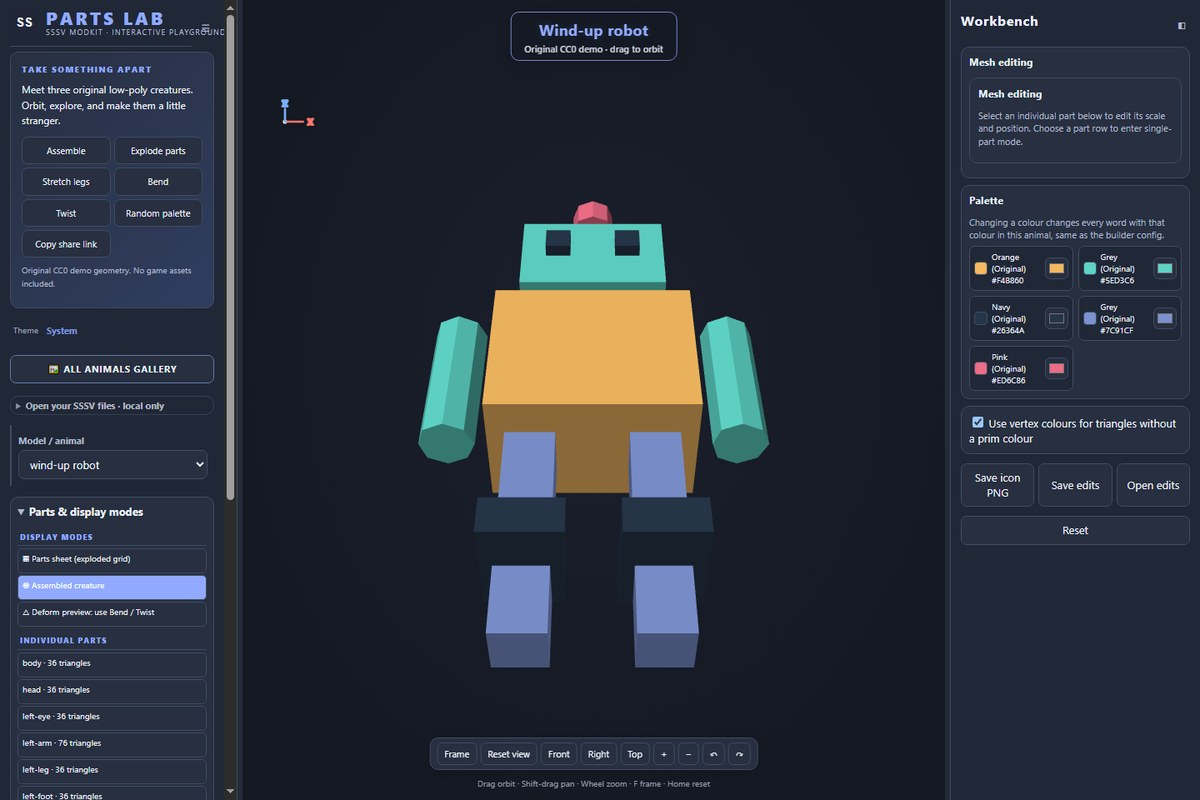
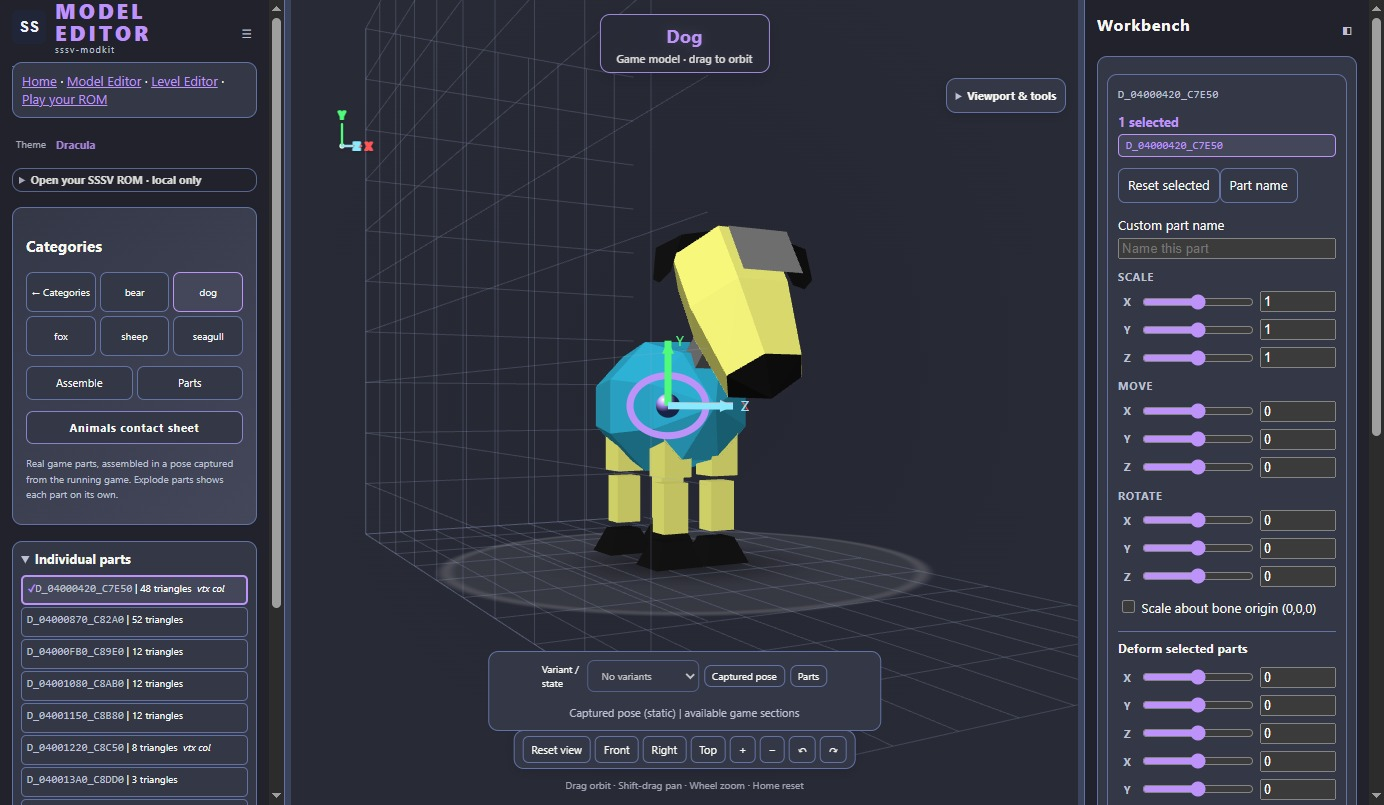
Refresh Model Editor feature screenshot

diff --git a/docs/images/features/README.md b/docs/images/features/README.md
@@ -6,7 +6,7 @@ holders; it is not part of the project's CC0 dedication.
 
 | Image | What it shows | Limits |
 | --- | --- | --- |
-| `parts-lab.jpg` | Current public-build Model Editor, original wind-up robot demo and save controls, 2026-11-04 | Demo geometry, not an in-game animal |
+| `parts-lab.jpg` | Updated Model Editor, assembled dog, compact animal categories, selected-part gizmo, numeric transforms and 3D reference grid, 2026-11-14 | Browser preview with a captured static pose; approximate materials, not an in-game capture |
 | `level-viewer-prototype.jpg` | Private level viewer with textured terrain and Save/Open view controls, 2026-11-04 | View settings only; level editing is not implemented in this UI |
 | `parts-lab-before-after.png` | Public-build Model Editor, 2026-11-05: bundled bear, dog and fox assembled with their game-captured poses (top) and with share-link presets applied (bottom: new palettes, bear arms scaled 1.5x and bent, dog legs scaled, fox tail scaled) | Browser preview of edits, not an in-game capture |
 | `bear-deform-comparison.png` | Archived comparison image, removed from the landing page after owner review | The side-by-side comparison was identified as incorrect; do not use it as before/after evidence |
@@ -18,8 +18,11 @@ objects, colours, HUD elements, or results were generated or retouched. They
 retain their source pixel scale: 1875 × 672 for the bear comparison and
 305 × 224 for each prototype frame. The bear comparison is retained only as an archived file, not displayed as evidence.
 
-The two browser UI captures were resized proportionally from 1440 × 960 to
-1200 × 800 and saved as JPEGs. The complete interface remains visible.
+The original level viewer browser capture was resized proportionally from 1440 × 960 to
+1200 × 800 and saved as a JPEG. The updated `parts-lab.jpg` is an unretouched
+1384 × 805 JPEG captured directly from the current public-build Model Editor in Chrome
+on 2026-11-14, in Dracula theme. The owner requested its replacement for public
+documentation. It shows the visible browser viewport, with scrollable panels.
 `parts-lab-before-after.png` is six headless-Chrome captures (1400 × 900 window) of
 the 3D view only, cropped to 800 × 720, scaled to 400 × 360 and tiled 3 × 2. Nothing
 was retouched. It still needs the owner's approval like the images above.
